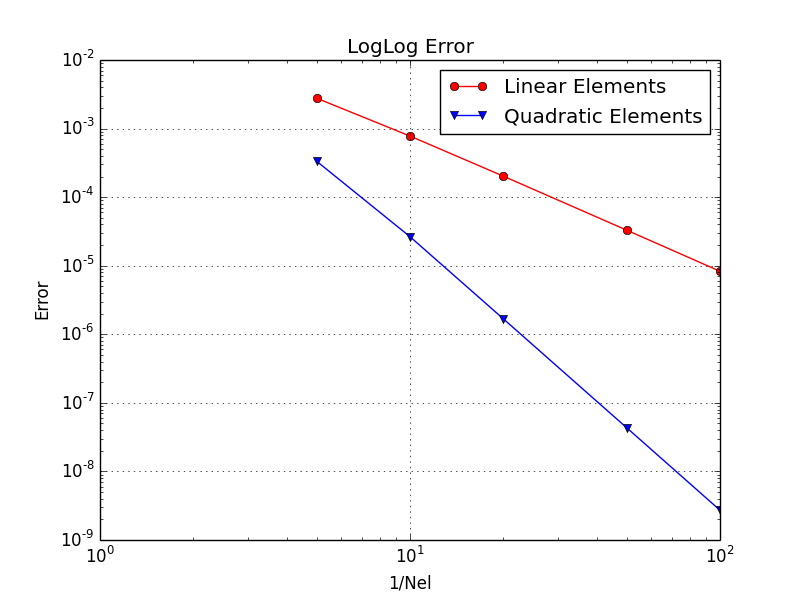
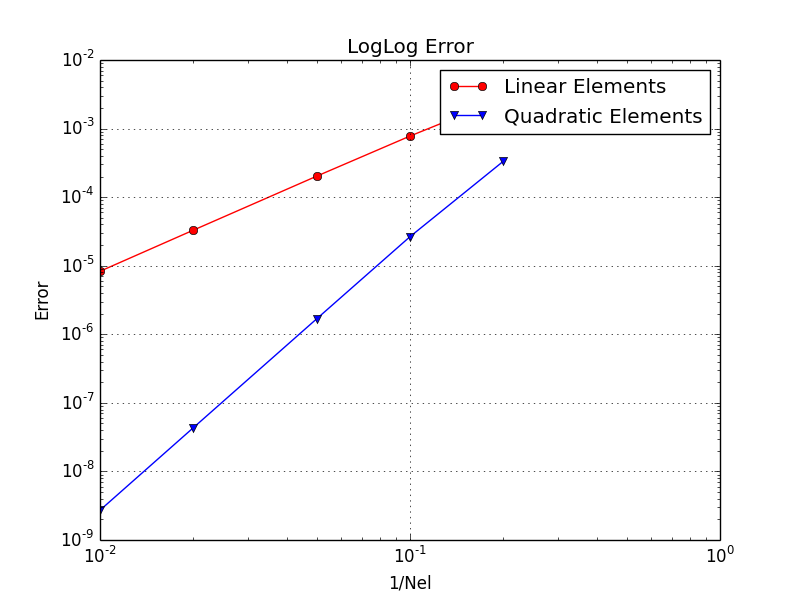
new comments and regression

diff --git a/helmholtz.py b/helmholtz.py
@@ -1,12 +1,20 @@
+#####################################################################
+###    File:               helmholtz.py                           ###
+###    Author:             Sebastia Ramon                         ###
+###    Version:            1.0.0                                  ###
+###    License:            MIT                                    ###
+#####################################################################
+
 from math import cos, pi, sqrt
 import numpy as np
 import matplotlib.pyplot as plt
-# np.set_printoptions(suppress=True)
-# np.set_printoptions(precision=4)
+from scipy.stats import linregress
 
+### Function in the RHS of Helmholtz equation ###
 def f(x, s, l):
     return -(4 * s * pi**2 + l) * cos(2 * pi * x)
 
+### Subroutine that return necessary information for performing Guassian quadrature ###
 def gaussIntegration(order):
     if order == 2:
         GaussPoints = [-1.0/sqrt(3), 1.0/sqrt(3)]
@@ -33,6 +41,7 @@ def gaussIntegration(order):
         raise Exception('Order of Gauss integration not implemented')
     return {'gp': GaussPoints, 'gw': GaussWeights}
 
+### Subroutine that returns shape functions for 1st and 2nd order ###
 def shapeFunction(order, xi):
     if order == 1:
         return np.array([[(1.0 - xi) / 2.0], [(1.0 + xi) / 2.0]])
@@ -42,6 +51,7 @@ def shapeFunction(order, xi):
     else:
         raise Exception('Order of shape function not implemented')
 
+### Subroutine that returns shape functions' derivatives for 1st and 2nd order ###
 def derShapeFunction(order, xi):
     if order == 1:
         return np.array([[-1.0 / 2.0], [1.0 / 2.0]])
@@ -50,6 +60,7 @@ def derShapeFunction(order, xi):
     else:
         raise Exception('Order of shape function not implemented')
 
+### Subroutine that implements a solver for the Helmholtz equation ###
 def helmholtz(numberOfElements, order):
     ### Constants ###
     lda = 1.0
@@ -206,11 +217,12 @@ if __name__ == '__main__':
     for nEl in Nel:
         secondError = np.append(secondError, [helmholtz(nEl, secondOrder)])
     # print secondError
-    # size = np.log(Nel)
+    NelInv = 1.0/Nel
+    # print linregress(np.log(firstError), np.log(NelInv))[0]
+    # print linregress(np.log(secondError), np.log(NelInv))[0]
     fig, ax = plt.subplots()
-    plt.loglog(Nel, firstError, 'ro-', Nel, secondError, 'bv-')
-    ax.set(xlabel='1/Nel', ylabel='Error',
-           title='LogLog Error')
+    plt.loglog(NelInv, firstError, 'ro-', NelInv, secondError, 'bv-')
+    ax.set(xlabel='1/Nel', ylabel='Error', title='LogLog Error')
     ax.grid()
     plt.legend(['Linear Elements', 'Quadratic Elements'])
     fig.savefig('error.png')
